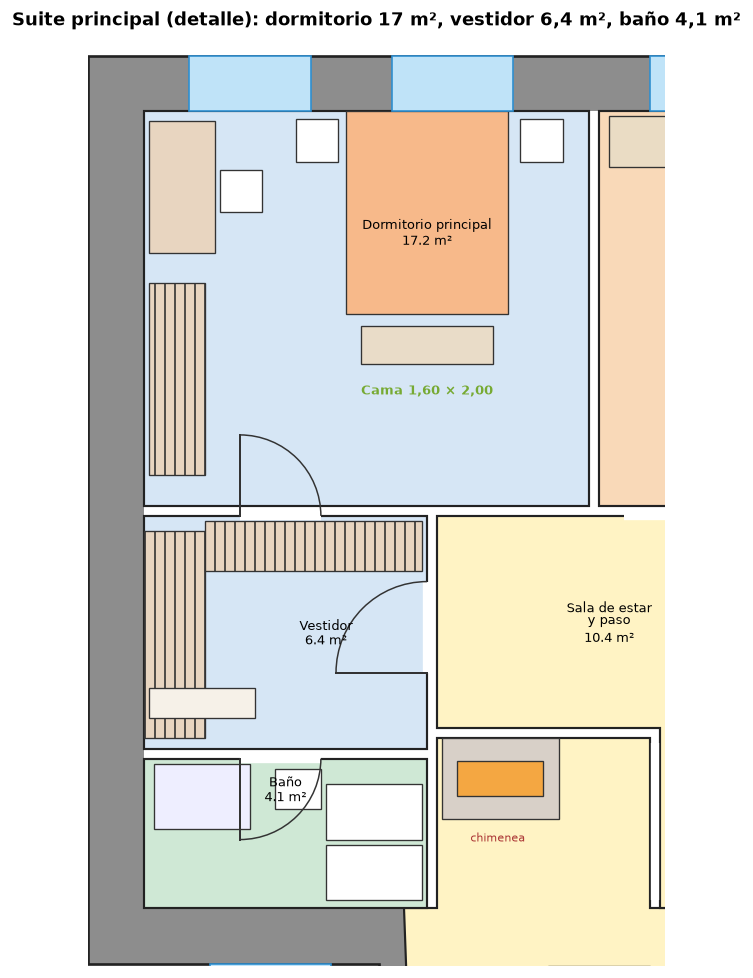
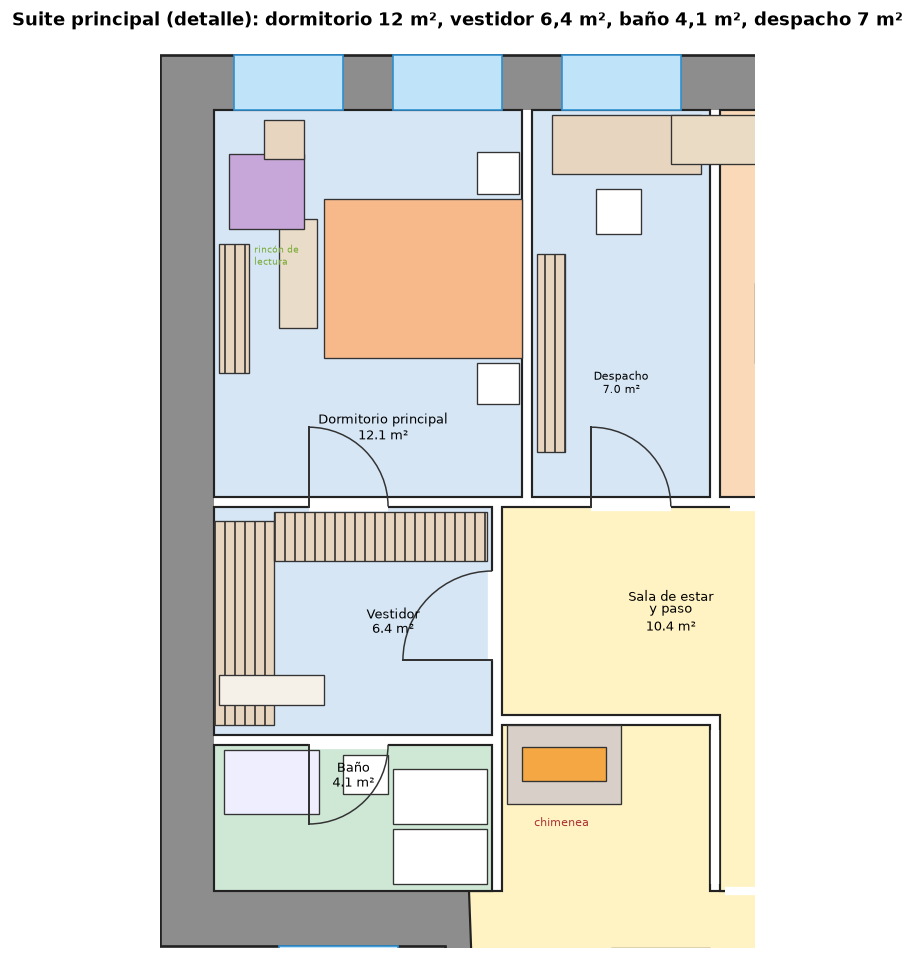
Suite: dormitorio reducido, rincón de lectura y despacho pequeño
Claude-Session: https://claude.ai/code/session_01GrFzVPJDRJqirwnmNdffa5

diff --git a/casa3d/opciones.py b/casa3d/opciones.py
@@ -24,17 +24,19 @@ HUB = [(3.45, 9.65), (5.65, 9.65), (5.65, 7.87), (7.15, 7.87), (7.15, 11.75), (3
 
 PB = [("Salón con comedor", "sala", SALON_PB, (5.45, 4.6)), ("Pasillo de entrada\n(murete a media altura)", "circ", [(7.85, 0.25), (9.30, 0.25), (9.30, 7.32), (9.00, 7.32), (9.00, 7.87), (7.85, 7.87)]),
       ("Entrada", "circ", R(7.25, 7.87, 9.00, 8.95)), ("Escalera", "esc", R(7.25, 8.95, 9.00, 11.75)), ("Baño grande", "humedo", R(9.10, 8.85, 11.50, 11.25)),
-      ("Sala de estar\ny paso", "sala", HUB, (5.15, 10.7)), ("Cocina", "cocina", R(5.05, 11.85, 9.00, 15.75)),
-      ("Dormitorio principal", "priv", R(0.55, 11.85, 4.95, 15.75), (3.35, 14.55)), ("Vestidor", "priv", R(0.55, 9.45, 3.35, 11.75), (2.35, 10.6)),
+      ("Sala de estar\ny paso", "sala", HUB, (5.15, 10.7)), ("Cocina", "cocina", R(5.65, 11.85, 9.00, 15.75)), ("Despacho", "priv", R(3.75, 11.85, 5.55, 15.75), (4.65, 13.0)),
+      ("Dormitorio principal", "priv", R(0.55, 11.85, 3.65, 15.75), (2.25, 12.55)), ("Vestidor", "priv", R(0.55, 9.45, 3.35, 11.75), (2.35, 10.6)),
       ("Baño", "humedo", R(0.55, 7.87, 3.35, 9.35), (1.95, 9.05))]
 PB_DOORS = [(7.85, 0.25, "H", 1.40, 1, 1),            # puerta de entrada de 1,40, pegada al muro este, abre hacia dentro
-            (9.05, 9.20, "V", 0.80, 0, 1), (5.30, 11.75, "H", 1.80, 0, 0),
+            (9.05, 9.20, "V", 0.80, 0, 1), (5.75, 11.75, "H", 1.60, 0, 0),
+            (4.35, 11.75, "H", 0.80, 0, 1),            # sala -> despacho
+
             (3.35, 10.20, "V", 0.90, 0, -1),           # de la sala directamente al vestidor
             (1.50, 9.35, "H", 0.80, 0, -1),            # vestidor -> baño (a la izquierda)
             (1.50, 11.75, "H", 0.80, 0, 1),            # vestidor -> dormitorio (a la derecha)
             (7.50, 15.75, "H", 1.00, 0, -1)]           # cocina -> patio del fondo
 PB_OPEN = [(5.60, 7.95, 5.60, 9.50), (5.70, 7.87, 7.05, 7.87), (7.20, 7.97, 7.20, 8.90)]
-VENTANAS = [(1.00, 15.75, 1.20), (3.00, 15.75, 1.20), (5.55, 15.75, 1.20), (1.20, 7.32, 1.20)]      # (x, y de la cara interior del muro, ancho)
+VENTANAS = [(0.75, 15.75, 1.10), (2.35, 15.75, 1.10), (4.05, 15.75, 1.20), (6.05, 15.75, 1.20), (1.20, 7.32, 1.20)]      # (x, y de la cara interior del muro, ancho)
 VENTANAS_E = [(9.00, 13.00, 1.60)]                                                                      # ventana de cocina al este
 
 PA = [("Terraza sobre el salón", "terraza", SALON_PA), ("Entrada", "circ", R(7.25, 7.87, 9.00, 8.95)), ("Escalera (hueco)", "esc", R(7.25, 8.95, 9.00, 11.75)),
@@ -75,9 +77,11 @@ def muebles_pb(ax):
     for y in (5.4, 6.1, 6.8): r(ax, 4.27, y, .22, .4); r(ax, 5.61, y, .22, .4)
     ax.plot([3.55, 5.45], [4.9, 4.9], color="#a58", lw=.8, ls=":", zorder=6); ax.text(3.6, 5.0, "comedor", fontsize=6.3, color="#a58", va="bottom", zorder=8)
     # suite como la referencia: cama con cabecero al fondo entre mesitas, banco a los pies, escritorio junto a la ventana, vestidor con armarios en L y baño con ducha, inodoro y lavabo doble
-    r(ax, 2.55, 13.75, 1.60, 2.00, "#f7b98a"); r(ax, 2.05, 15.25, .42, .42); r(ax, 4.27, 15.25, .42, .42); r(ax, 2.70, 13.25, 1.30, .38, "#e9dcc8")
-    r(ax, 0.60, 14.35, 0.65, 1.30, "#e8d5c0"); r(ax, 1.30, 14.75, .42, .42)                                       # escritorio y silla, junto a la ventana
-    r(ax, 0.60, 12.15, 0.55, 1.90, "#e8d5c0", "||")                                                              # armario auxiliar del dormitorio
+    r(ax, 1.65, 13.25, 2.00, 1.60, "#f7b98a"); r(ax, 3.20, 12.78, .42, .42); r(ax, 3.20, 14.90, .42, .42); r(ax, 1.20, 13.55, .38, 1.10, "#e9dcc8")   # cama (cabecero al este), mesitas, banco
+    r(ax, 0.60, 13.10, 0.30, 1.30, "#e8d5c0", "||")                                                              # estantería del rincón de lectura
+    r(ax, 0.70, 14.55, 0.75, 0.75, "#c7a7d9"); r(ax, 1.05, 15.25, 0.40, 0.40, "#e8d5c0"); ax.text(0.95, 14.40, "rincón de\nlectura", fontsize=5.6, color="#7a3", ha="left", va="top", zorder=12)   # sillón y mesita junto a la ventana
+    # despacho pequeño: mesa bajo la ventana, silla y estantes en la pared
+    r(ax, 3.95, 15.10, 1.50, 0.60, "#e8d5c0"); r(ax, 4.40, 14.50, 0.45, 0.45); r(ax, 3.80, 12.30, 0.28, 2.00, "#e8d5c0", "||")
     r(ax, 0.55, 9.55, 0.60, 2.05, "#e8d5c0", "||"); r(ax, 1.15, 11.20, 2.15, 0.50, "#e8d5c0", "||")              # vestidor: armarios en L
     r(ax, 0.60, 9.75, 1.05, 0.30, "#f6f1e8")                                                                     # alfombra / banco
     r(ax, 0.65, 8.65, 0.95, 0.65, "#eef"); r(ax, 1.85, 8.85, 0.45, 0.40); r(ax, 2.35, 7.95, 0.95, 0.55); r(ax, 2.35, 8.55, 0.95, 0.55)   # ducha, inodoro, doble lavabo
@@ -117,9 +121,9 @@ def dibujar(ax, rooms, doors, planta, abiertos=()):
     return circ, total
 
 
-IDEAS = ["Suite como la referencia: se entra desde la sala al vestidor con armarios en L; a la izquierda el baño (ducha, inodoro y lavabo doble) y a la derecha el dormitorio, con escritorio junto a la ventana.",
+IDEAS = ["Suite como la referencia: vestidor con armarios en L (por eso el dormitorio no lleva armario), baño con ducha, inodoro y lavabo doble, y en el dormitorio un rincón de lectura junto a la ventana (sillón, mesita y estantería).",
          "Cocina de 15 m² con puerta y ventana al fondo y ventana al este. Salón con comedor, sofá en U, pantalla grande y chimenea en el rincón.",
-         "Sin oficina abajo: el Dormitorio 3 de arriba (15 m²) puede ser despacho. Arriba sin pasillo: la escalera da a una sala familiar."]
+         "Despacho pequeño (7 m²) con ventana, entrando desde la sala de estar; el Dormitorio 3 de arriba sigue libre. Arriba sin pasillo: la escalera da a una sala familiar."]
 
 if __name__ == "__main__":
     fig = plt.figure(figsize=(13, 9.5)); fig.suptitle("Distribución propuesta", fontsize=14, weight="bold", x=0.02, ha="left")
@@ -132,9 +136,9 @@ if __name__ == "__main__":
 
 
 def suite_png():
-    fig, ax = plt.subplots(figsize=(6.2, 10.4))
+    fig, ax = plt.subplots(figsize=(6.4, 10.4))
     dibujar(ax, PB, PB_DOORS, "PB", PB_OPEN)
-    ax.set_aspect("equal", adjustable="box"); ax.set_xlim(0.0, 5.7); ax.set_ylim(7.3, 16.5)
+    ax.set_aspect("equal", adjustable="box"); ax.set_xlim(0.0, 6.0); ax.set_ylim(7.3, 16.5)
     for txt, xy in (("Escritorio", (0.95, 14.0)), ("Cama 1,60 × 2,00", (3.35, 12.95)), ("Armarios en L", (1.85, 11.95)), ("Ducha", (1.0, 8.2))):
         ax.text(*xy, txt, fontsize=8, color="#7a3", ha="center", weight="bold", zorder=12)
     x0,x1=ax.get_xlim(); y0,y1=ax.get_ylim()
@@ -146,8 +150,8 @@ def suite_png():
             t.set_clip_on(True)
         except Exception: pass
     for t in ax.texts:
-        if t.get_text() in ("Escritorio","Ducha","Armarios en L"): t.set_visible(False)
-    ax.set_title("Suite principal (detalle): dormitorio 17 m², vestidor 6,4 m², baño 4,1 m²", fontsize=11, weight="bold")
+        if t.get_text() in ("Escritorio","Ducha","Armarios en L","Cama 1,60 × 2,00"): t.set_visible(False)
+    ax.set_title("Suite principal (detalle): dormitorio 12 m², vestidor 6,4 m², baño 4,1 m², despacho 7 m²", fontsize=11, weight="bold")
     fig.savefig("suite.png", dpi=120, bbox_inches="tight"); plt.close(fig)
 
 if __name__ == "__main__": suite_png()
